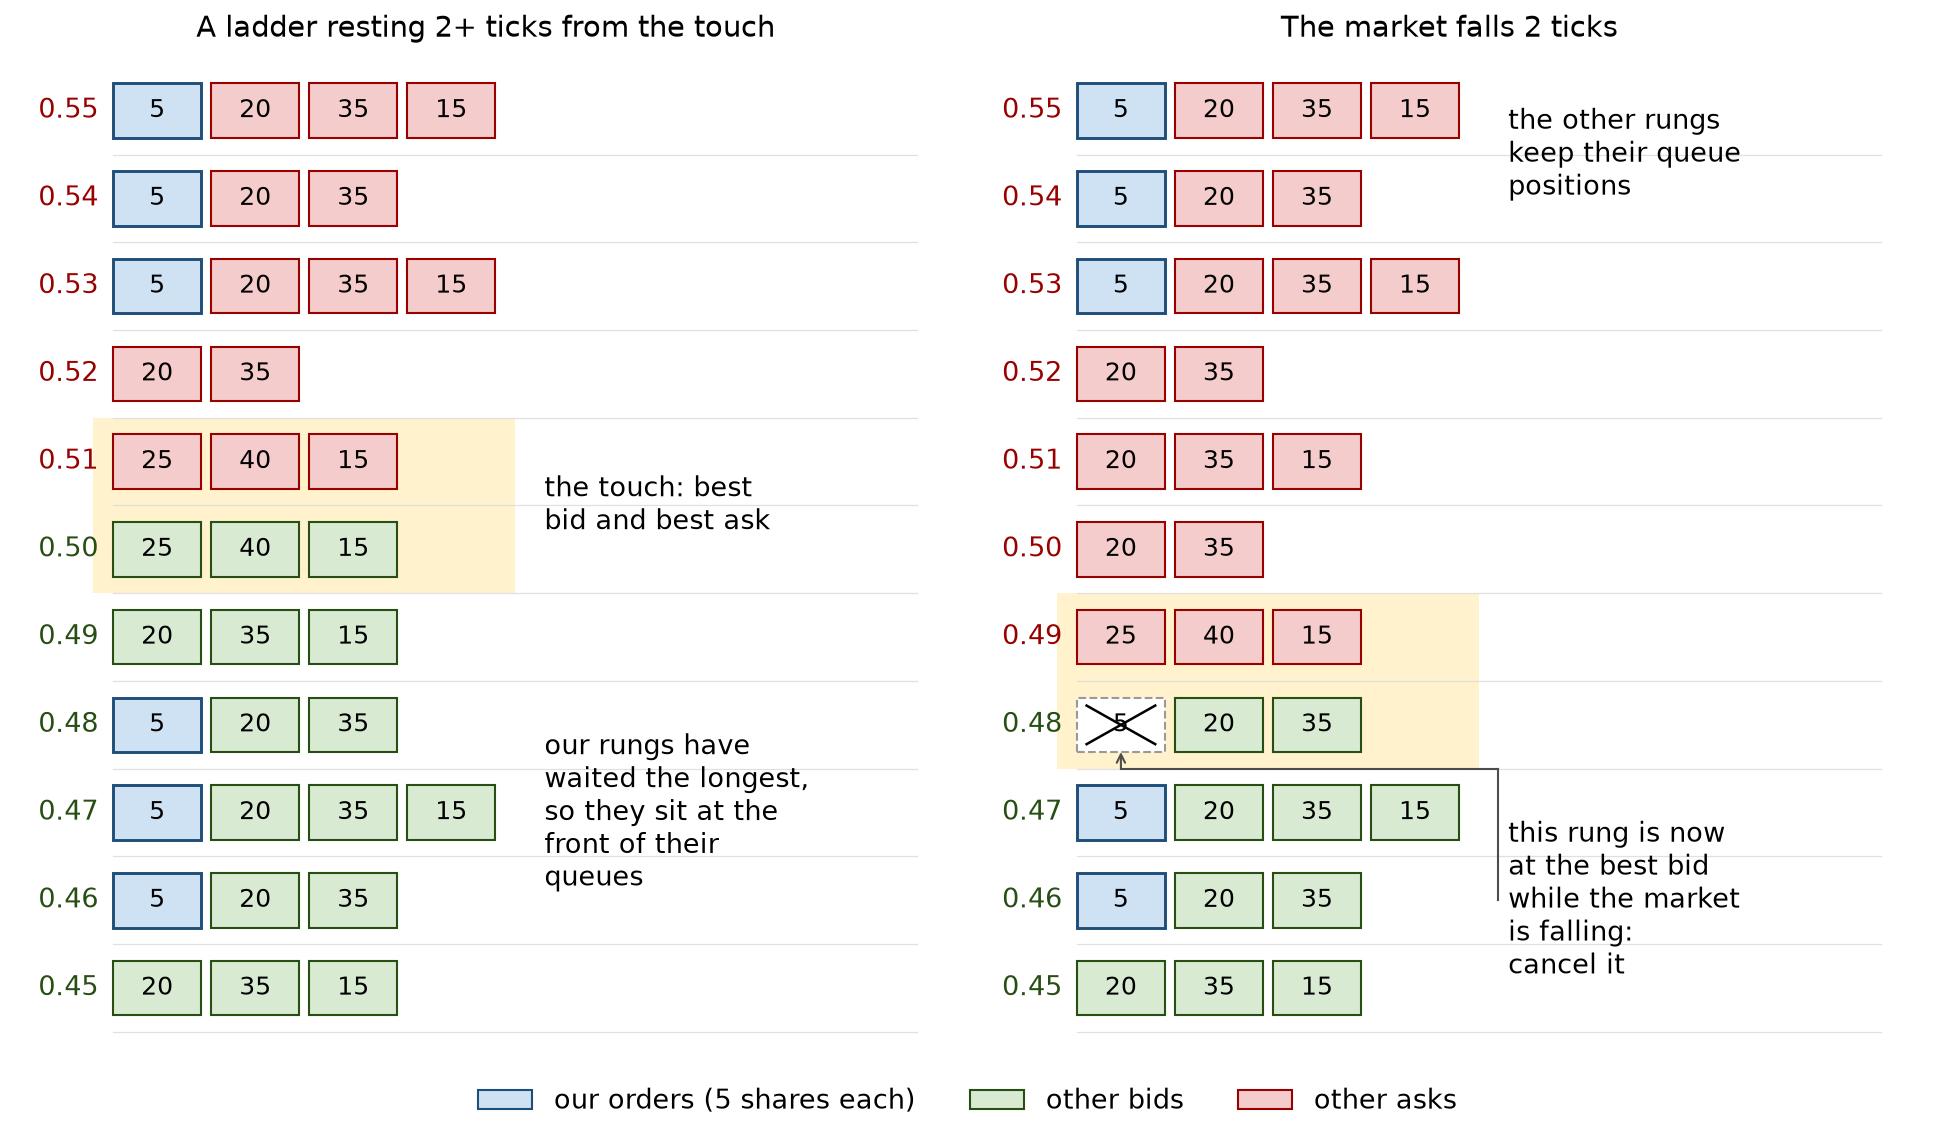
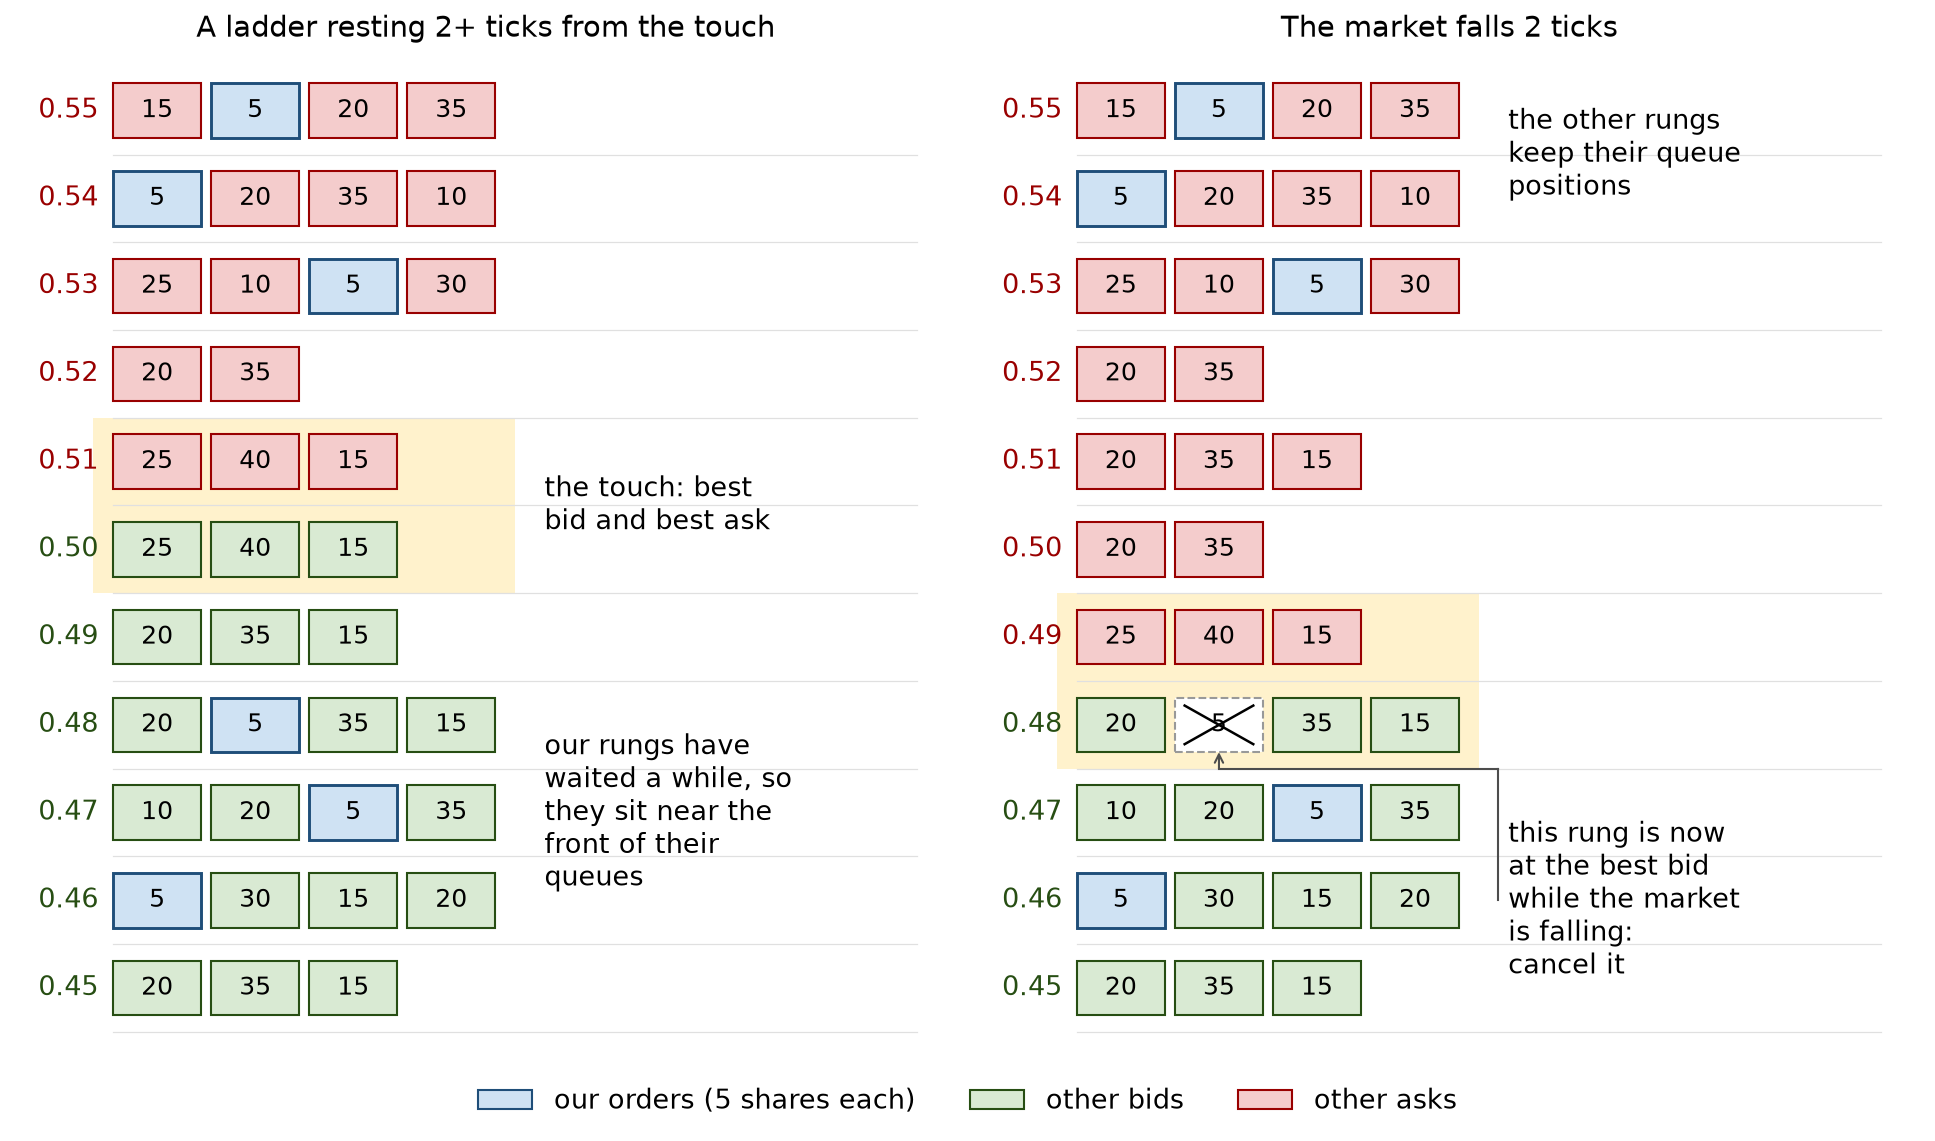
Loop chart shows only the training sweep; ladder rungs sit near the front

diff --git a/market-making/index.html b/market-making/index.html
@@ -255,7 +255,7 @@ h3.u + p { margin-top: 0; }
 
 <figure>
 <img class="fig-img" src="figs/ladder.png" alt="A ladder of quotes in the order book, and the rung that gets canceled" loading="lazy">
-<figcaption>A ladder: one 5-share order at each of several prices, 2 or more ticks from the touch. When the market falls 2 ticks, the rung that is now the best bid is canceled; the rest keep their places at the front of their queues.</figcaption>
+<figcaption>A ladder: one 5-share order at each of several prices, 2 or more ticks from the touch. When the market falls 2 ticks, the rung that is now the best bid is canceled; the rest keep their places near the front of their queues.</figcaption>
 </figure>
 
 <h3 class="u">Loop speed?</h3>
@@ -263,7 +263,7 @@ h3.u + p { margin-top: 0; }
 
 <figure>
 <img class="fig-img" src="figs/loop_speed.png" alt="Backtest return against loop period" loading="lazy">
-<figcaption>Backtest return against the decision-loop period, by data split. Left: an earlier strategy quoting one tick behind the touch, from 5 to 30 ms. Right: the final strategy at 5, 7 and 10 ms, where the differences were within noise (paired against 10 ms: t = +0.67 at 5 ms, +1.16 at 7 ms) while 5 ms sent about 17% more orders.</figcaption>
+<figcaption>Backtest return against the decision-loop period, from 5 to 30 ms, for an earlier strategy quoting one tick behind the touch (training split, 3,103 sessions).</figcaption>
 </figure>
 
 <script>
